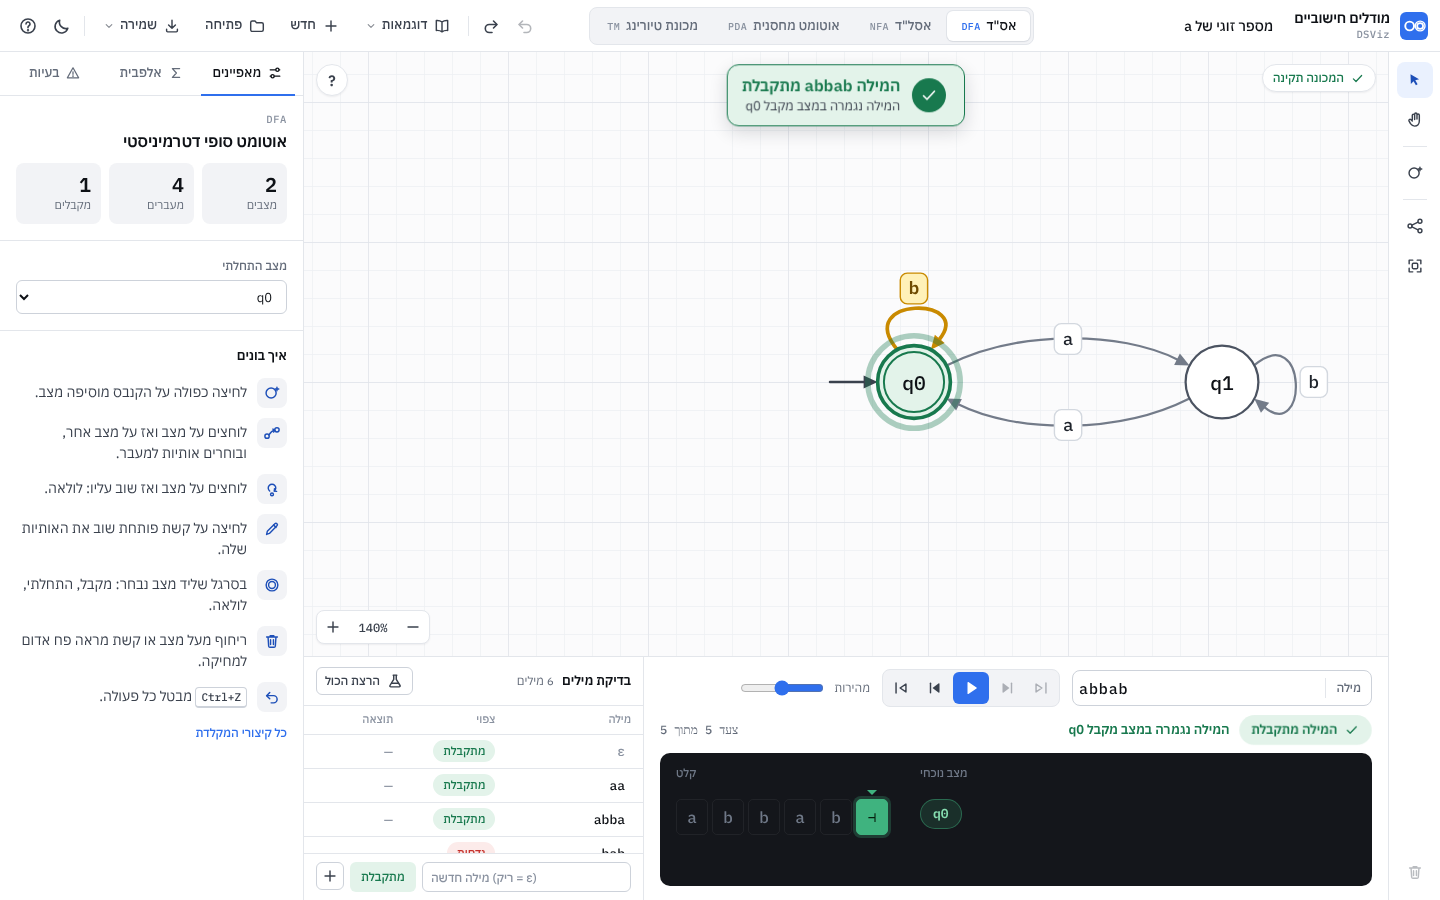
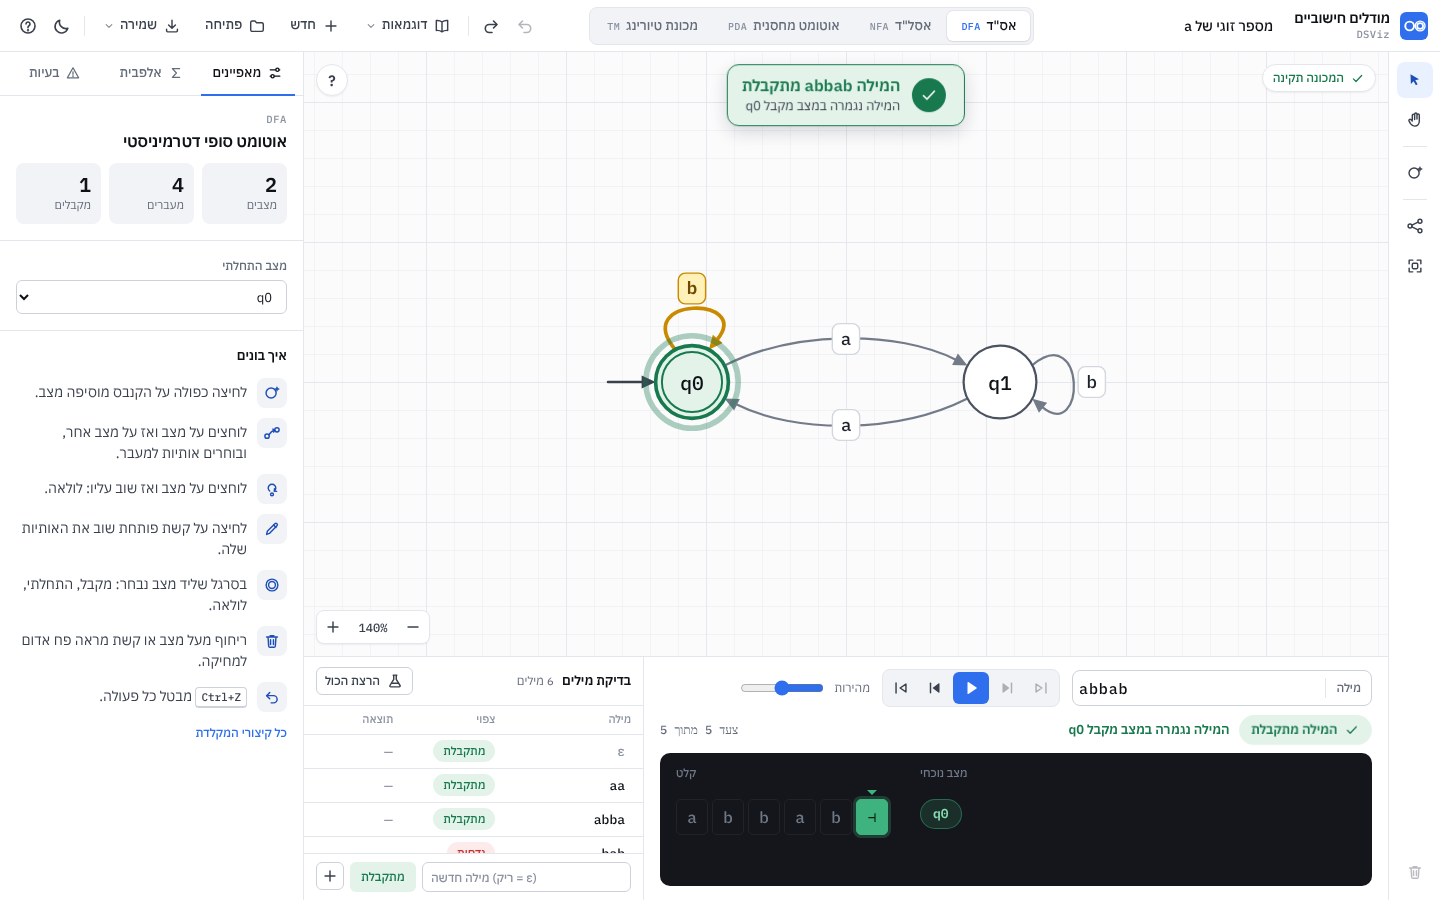
מודלים חישוביים: אחרי סגירת ההדרכה המכונה חוזרת למרכז; צילומים מעודכנים
Claude-Session: https://claude.ai/code/session_01UCquMSqFVSTwN4KTsZFYci

Changed region(s): [[0.4375, 0.28, 0.7812, 0.4978], [0.7812, 0.3733, 0.9062, 0.4667], [0.9062, 0.4044, 0.9375, 0.4356]]

diff --git a/java-visualizer/automata/app/js/guide.js b/java-visualizer/automata/app/js/guide.js
@@ -43,7 +43,12 @@
       $('#guide-btn').addEventListener('click', () => { this.pinned = !this.pinned || this.el.hidden; this.update(); });
     },
 
-    hide() { this.pinned = false; store.set('seen'); this.update(); },
+    hide() {
+      this.pinned = false;
+      store.set('seen');
+      this.update();
+      if (this.shifted) { this.shifted = false; this.app.canvas.fit(); this.app.autosave(); }   // מחזירים את המכונה למרכז
+    },
 
     update() {
       const empty = !this.app.machine.states.length;
@@ -56,7 +61,7 @@
       if (this.el.dataset.mode === mode) return;
       this.el.dataset.mode = mode;
       // הכרטיס הצף יושב בצד שמאל: מזיזים את המכונה כדי שלא תוסתר
-      if (mode === 'float') requestAnimationFrame(() => this.app.canvas.fit(this.el.offsetWidth + 24));
+      if (mode === 'float') requestAnimationFrame(() => { this.shifted = true; this.app.canvas.fit(this.el.offsetWidth + 24); });
       this.el.innerHTML =
         '<div class="guide-head"><h2>' + (empty ? 'בונים מכונה בשלושה צעדים' : 'איך בונים') + '</h2>' +
         (empty ? '' : '<button type="button" class="pop-x" data-g="close" aria-label="סגירת ההדרכה">' + I.get('x', 16) + '</button>') + '</div>' +
